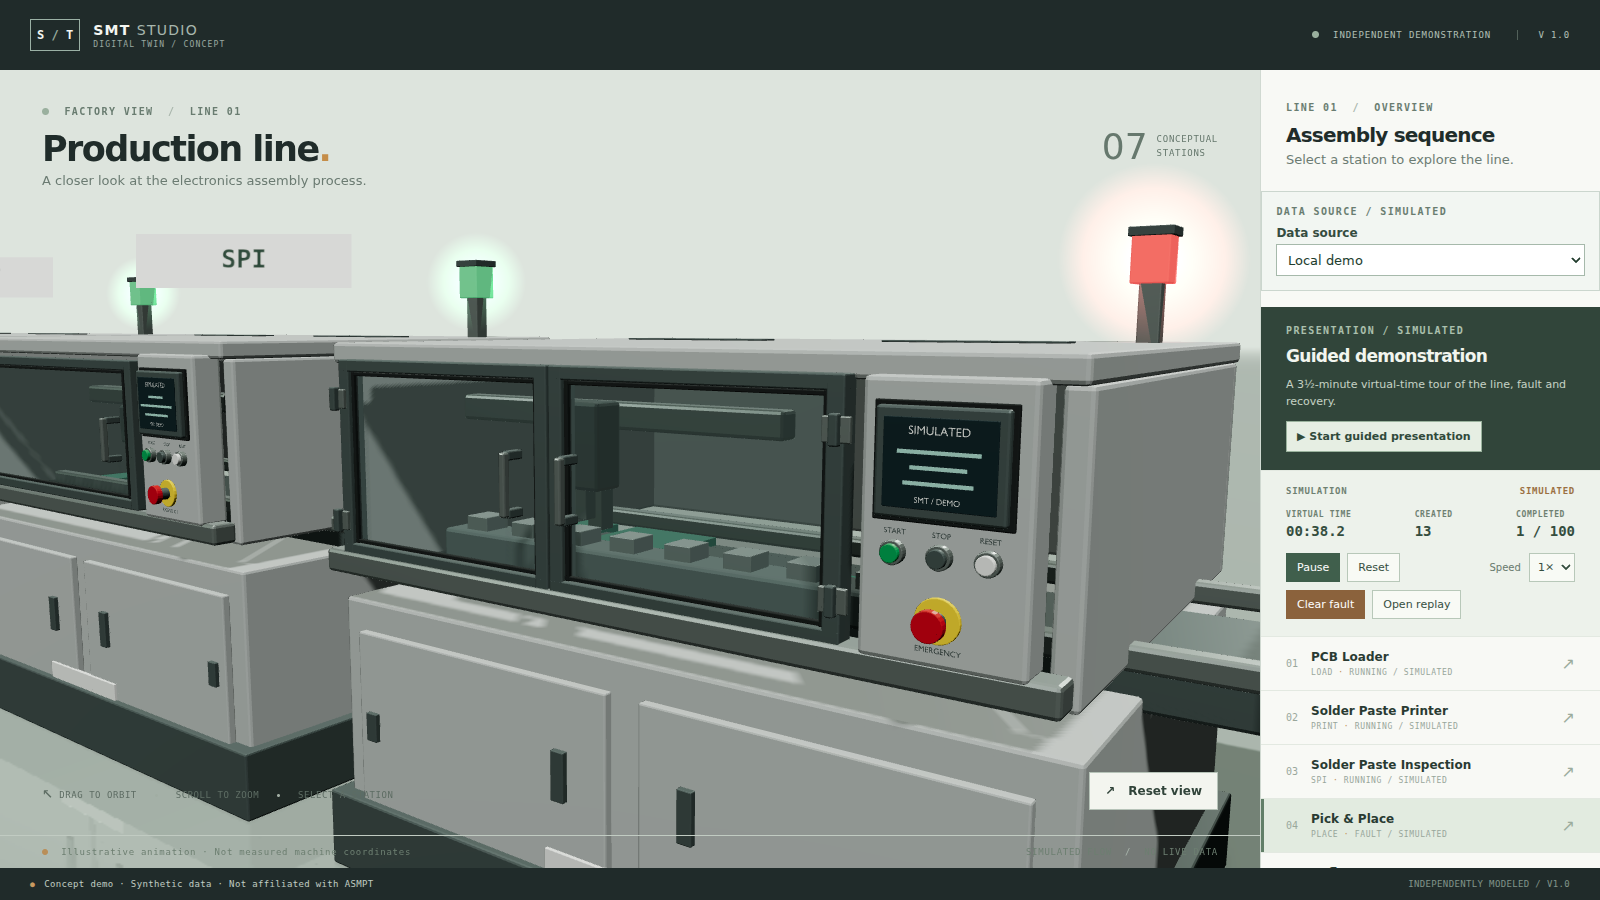
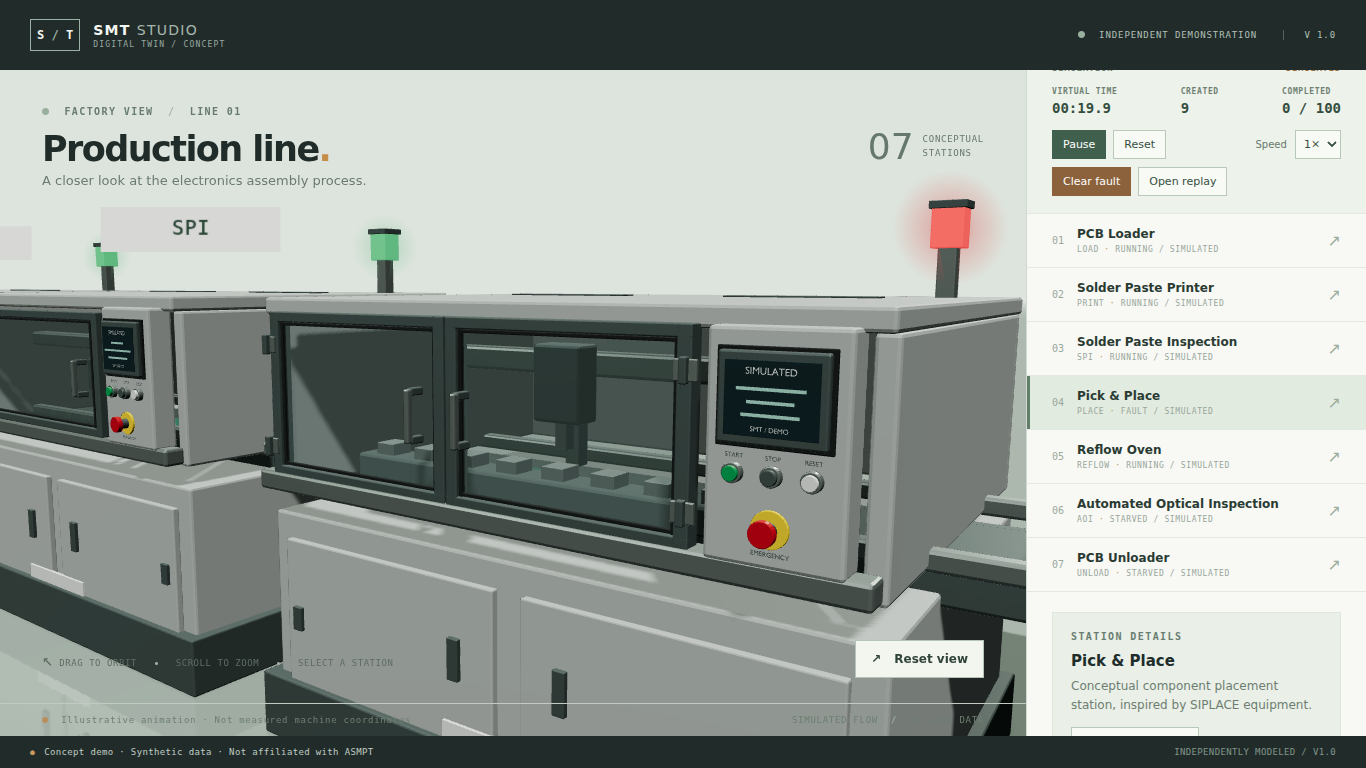
fix: tint the halo by blending normally, and pin the lens position

diff --git a/tests/unit/status-glow.test.ts b/tests/unit/status-glow.test.ts
@@ -1,17 +1,32 @@
 import { describe, expect, it } from 'vitest'
-import { glowOpacity, glowScale } from '../../src/scene/statusGlow'
+import { MAX_GLOW_SCALE, MIN_GLOW_SCALE, glowOpacity, glowScale } from '../../src/scene/statusGlow'
 
 describe('status light glow', () => {
-  it('glows brightest for a fault and dimmest for an idle machine', () => {
-    expect(glowOpacity('FAULT')).toBeGreaterThan(glowOpacity('RUNNING'))
-    expect(glowOpacity('RUNNING')).toBeGreaterThan(glowOpacity('IDLE'))
-    expect(glowOpacity('IDLE')).toBeGreaterThan(0)
-    expect(glowOpacity('FAULT')).toBeLessThanOrEqual(0.8)
+  it('follows the documented per-state table', () => {
+    expect(glowOpacity('FAULT')).toBeCloseTo(0.6, 5)
+    expect(glowOpacity('BLOCKED')).toBeCloseTo(0.52, 5)
+    expect(glowOpacity('STARVED')).toBeCloseTo(0.52, 5)
+    expect(glowOpacity('RUNNING')).toBeCloseTo(0.46, 5)
+    expect(glowOpacity('IDLE')).toBeCloseTo(0.12, 5)
+    expect(glowOpacity('UNKNOWN')).toBeCloseTo(0.12, 5)
+    expect(glowOpacity('')).toBeCloseTo(0.12, 5)
+    expect(glowScale('FAULT')).toBeCloseTo(0.46, 5)
+    expect(glowScale('RUNNING')).toBeCloseTo(0.4, 5)
+    expect(glowScale('IDLE')).toBeCloseTo(0.26, 5)
   })
 
-  it('keeps the halo small enough to read as a lamp, not a flare', () => {
-    expect(glowScale('FAULT')).toBeGreaterThan(glowScale('RUNNING'))
-    expect(glowScale('FAULT')).toBeLessThanOrEqual(0.7)
-    expect(glowScale('IDLE')).toBeGreaterThan(0)
+  it('stays between the lens width and the no-neon budget', () => {
+    for (const state of ['FAULT', 'BLOCKED', 'STARVED', 'RUNNING', 'IDLE', 'UNKNOWN', '']) {
+      expect(glowScale(state)).toBeGreaterThanOrEqual(MIN_GLOW_SCALE)
+      expect(glowScale(state)).toBeLessThanOrEqual(MAX_GLOW_SCALE)
+      expect(glowOpacity(state)).toBeGreaterThanOrEqual(0)
+      expect(glowOpacity(state)).toBeLessThanOrEqual(0.6)
+    }
+  })
+
+  it('orders the states by urgency', () => {
+    expect(glowOpacity('FAULT')).toBeGreaterThan(glowOpacity('STARVED'))
+    expect(glowOpacity('STARVED')).toBeGreaterThan(glowOpacity('RUNNING'))
+    expect(glowOpacity('RUNNING')).toBeGreaterThan(glowOpacity('IDLE'))
   })
 })

diff --git a/src/scene/StatusGlow.tsx b/src/scene/StatusGlow.tsx
@@ -5,7 +5,11 @@ import { glowOpacity, glowScale } from './statusGlow'
 
 let cached: THREE.CanvasTexture | null = null
 
-/** A radial falloff generated at runtime: no texture is downloaded. */
+/**
+ * A radial falloff generated at runtime: no texture is downloaded.
+ * Cached for the lifetime of the page on purpose — each sprite shares it, so disposing on unmount
+ * would blank the other stations.
+ */
 function glowTexture(): THREE.CanvasTexture {
   if (cached) return cached
   const size = 128
@@ -13,8 +17,8 @@ function glowTexture(): THREE.CanvasTexture {
   canvas.width = canvas.height = size
   const context = canvas.getContext('2d')!
   const gradient = context.createRadialGradient(size / 2, size / 2, 0, size / 2, size / 2, size / 2)
-  gradient.addColorStop(0, 'rgba(255,255,255,1)')
-  gradient.addColorStop(0.35, 'rgba(255,255,255,0.55)')
+  gradient.addColorStop(0, 'rgba(255,255,255,0.95)')
+  gradient.addColorStop(0.4, 'rgba(255,255,255,0.45)')
   gradient.addColorStop(1, 'rgba(255,255,255,0)')
   context.fillStyle = gradient
   context.fillRect(0, 0, size, size)
@@ -23,19 +27,20 @@ function glowTexture(): THREE.CanvasTexture {
   return cached
 }
 
-/** Additive halo over the tower lens; depth-tested so a machine in front still occludes it. */
+/**
+ * Soft halo over the tower lens. Normal blending keeps the hue on the pale backdrop (additive turns
+ * the fault halo white), and depth testing lets a machine in front occlude it.
+ */
 export default function StatusGlow({ position, state }: { position: [number, number, number]; state: string }) {
   const texture = useMemo(glowTexture, [])
   const scale = glowScale(state)
-  return <sprite position={position} scale={[scale, scale, 1]}>
+  return <sprite name="Signal_Glow" position={position} scale={[scale, scale, 1]} raycast={() => undefined}>
     <spriteMaterial
       map={texture}
       color={signalColor(state)}
       transparent
       opacity={glowOpacity(state)}
-      blending={THREE.AdditiveBlending}
       depthWrite={false}
-      toneMapped={false}
     />
   </sprite>
 }

diff --git a/src/scene/statusGlow.ts b/src/scene/statusGlow.ts
@@ -1,13 +1,29 @@
-import { signalIntensity } from './status'
+/** Authored lens centre in station space; every GLB places `Signal_Lens` here. */
+export const SIGNAL_LENS: [number, number, number] = [1.01, 2.17, -0.65]
+
+/** The halo must stay wider than the 0.12 m lens, and narrow enough to read as a lamp, not a flare. */
+export const MIN_GLOW_SCALE = 0.16
+export const MAX_GLOW_SCALE = 0.5
 
 /**
- * Additive halo around the signal lens. It is a sprite, not a post-processing pass:
- * a neon bloom would fight the restrained look the demo is aiming for.
+ * Additive halos wash out to white on this pale backdrop once a channel clips, so the glow is a
+ * softly tinted disc instead. A sprite, not a post-processing pass: a neon bloom would fight the
+ * restrained look the demo is aiming for, and would need the render targets this project rejected
+ * with ambient occlusion.
  */
+const GLOW: Record<string, { opacity: number; scale: number }> = {
+  FAULT: { opacity: 0.6, scale: 0.46 },
+  BLOCKED: { opacity: 0.52, scale: 0.42 },
+  STARVED: { opacity: 0.52, scale: 0.42 },
+  RUNNING: { opacity: 0.46, scale: 0.4 },
+}
+
+const IDLE = { opacity: 0.12, scale: 0.26 }
+
 export function glowOpacity(state: string): number {
-  return Math.min(0.8, 0.18 + signalIntensity(state) * 0.5)
+  return GLOW[state]?.opacity ?? IDLE.opacity
 }
 
 export function glowScale(state: string): number {
-  return 0.24 + signalIntensity(state) * 0.4
+  return GLOW[state]?.scale ?? IDLE.scale
 }

diff --git a/src/scene/Factory.tsx b/src/scene/Factory.tsx
@@ -15,6 +15,7 @@ import Floor from './Floor'
 import LightRig, { EXPOSURE } from './lighting'
 import { castsShadow } from './assetMaterials'
 import StatusGlow from './StatusGlow'
+import { SIGNAL_LENS } from './statusGlow'
 import { boardTarget, boardX, boardZ, updateTransfers, type Transfer } from './transfers'
 
 function Box({ position, size, color, metal = 0.25, name }: { position: [number, number, number]; size: [number, number, number]; color: string; metal?: number; name?: string }) {
@@ -122,7 +123,7 @@ function Machine({ station, machine, time, selected, onSelect, status }: { stati
   useEffect(() => () => label.dispose(), [label])
   return <group position={station.position} name={station.id} onClick={e => { e.stopPropagation(); onSelect() }}>
     <AssetShell station={station} machine={machine} time={time} selected={selected} state={status} />
-    <StatusGlow position={[1.01, 2.17, -0.65]} state={status} />
+    <StatusGlow position={SIGNAL_LENS} state={status} />
     {!machine && <Box position={[1.01, 2.3, -0.65]} size={[0.14, 0.14, 0.14]} color={signalColor(status)} />}
     {!selected && <sprite position={[0, 2.28, 0]} scale={[1.1, 0.275, 1]}><spriteMaterial map={label} /></sprite>}
   </group>

diff --git a/tests/unit/assets.test.ts b/tests/unit/assets.test.ts
@@ -2,6 +2,7 @@ import { readFileSync, statSync } from 'node:fs'
 import { describe, expect, it } from 'vitest'
 import { artifactNames, stationAnchors } from '../../src/data/anchors'
 import { anchorOffsets } from '../../src/scene/anchors'
+import { SIGNAL_LENS } from '../../src/scene/statusGlow'
 
 type GlbNode = { name?: string; mesh?: number; children?: number[]; translation?: number[] }
 type GlbMaterial = {
@@ -194,6 +195,16 @@ describe('original Blender machine assets', () => {
           expect(high[2] + dz, `${kind} ${anchorName} crosses the door`).toBeLessThan(enclosure.zMax)
         }
       }
+    })
+  }
+
+  for (const name of artifactNames) {
+    it(`${name} places its signal lens where the status glow is drawn`, () => {
+      const json = glbJson(name)
+      const lens = json.nodes.find(node => node.name === 'Signal_Lens')
+      const mesh = lens?.children?.map(index => json.nodes[index]).find(node => node.mesh !== undefined)
+      const translation = mesh?.translation ?? []
+      for (let axis = 0; axis < 3; axis++) expect(translation[axis]).toBeCloseTo(SIGNAL_LENS[axis], 5)
     })
   }
 

diff --git a/docs/STATUS_GLOW_REPORT.md b/docs/STATUS_GLOW_REPORT.md
@@ -4,37 +4,40 @@ Date: 2026-11-13. Branch: `v19-status-glow`. **Awaiting user visual acceptance.*
 
 ## What changed
 
-The signal tower used to change colour only, which read as coloured plastic. Each station now gets a small additive halo over its lens, sized and brightened by state:
+The seven signal towers used to change colour only, which read as coloured plastic. Each station now draws a small soft halo over its lens, sized and tinted by state:
 
-| State | Colour | Opacity | Halo width |
-| --- | --- | --- | --- |
-| FAULT | red | 0.68 | 0.64 m |
-| BLOCKED / STARVED | amber | 0.58 | 0.56 m |
-| RUNNING | green | 0.51 | 0.50 m |
-| IDLE / other | grey | 0.24 | 0.29 m |
+| State | Opacity | Halo width |
+| --- | --- | --- |
+| FAULT | 0.60 | 0.46 m |
+| BLOCKED / STARVED | 0.52 | 0.42 m |
+| RUNNING | 0.46 | 0.40 m |
+| IDLE / UNKNOWN | 0.12 | 0.26 m |
 
-Implementation: `src/scene/StatusGlow.tsx` renders a `sprite` with a radial-gradient canvas texture generated at runtime, additive blending, `depthWrite` false and depth testing on, so a machine in front still occludes it. The mapping lives in `src/scene/statusGlow.ts` and is unit-tested.
+Implementation: `src/scene/StatusGlow.tsx` renders a `sprite` with a radial-gradient canvas texture generated at runtime, normal blending, `depthWrite` false and depth testing on, so a machine in front still occludes it. The mapping lives in `src/scene/statusGlow.ts`; `SIGNAL_LENS` is the single authored lens position and is asserted against every GLB.
 
-Deliberately not a post-processing pass: a bloom pass would need render targets, tone-mapping care and its own quality switch — the same cost this project already rejected for ambient occlusion — to make three small lamps glow.
+Why not additive, and why not bloom: an additive halo clips to white on this pale backdrop — the first version's "red" fault halo measured a white core and a cream fringe. Normal blending keeps the hue. A bloom pass would need render targets, tone-mapping handling and a quality switch for seven small lamps, which is the cost the ambient-occlusion round already declined.
 
 ## Evidence
 
-| Running | Fault injected |
-| --- | --- |
-| ![Running](screenshots/status-glow/running.png) | ![Fault](screenshots/status-glow/fault.png) |
+| Overview, running | Fault injected, close-up | Idle |
+| --- | --- | --- |
+| ![Running](screenshots/status-glow/running.png) | ![Fault](screenshots/status-glow/fault.png) | ![Idle](screenshots/status-glow/idle.png) |
 
-The green halos read as lit lenses rather than painted cubes, and the faulted mounter's red halo is visible across the line without washing out the cabinets. Idle machines keep a faint grey halo so the tower does not look dead.
+At the shipped overview camera the halos read as small lit lenses rather than flares. The faulted mounter's halo is red, not white, and stays local to the tower. Idle stations show no halo in practice: the 0.12 opacity on a pale wall is below one visible level, which is deliberate — an idle tower should look off.
 
 Checks actually run:
 
 ```text
-npx vitest run tests/unit/status-glow.test.ts   2 passed
-npm test                                        114 passed, 1 skipped
+npx vitest run tests/unit/status-glow.test.ts tests/unit/assets.test.ts   42 passed
+npm test                                                                 114 passed, 1 skipped
 ```
+
+The unit tests pin the documented table for all five states plus `UNKNOWN`/`''`, the ordering (fault > starved > running > idle), and the width bounds (never narrower than the lens, never above the no-neon budget).
 
 ## Boundaries and decisions
 
-- The halo is a sprite, not light: it does not illuminate the cabinet, cast shadows or change with camera exposure. It is a visual cue, consistent with the "illustrative" footer.
-- Sizes stay under 0.7 m so a fault reads as a lamp, not a flare. The unit test pins the ordering (fault > running > idle) and the cap.
+- The halo is a sprite, not light: it casts no light or shadow, and it now participates in tone mapping like everything else.
+- Widths stay at or under 0.5 m (lens is 0.12 m) so a fault reads as a lamp, not a flare.
 - Remote (W4) views get the same halo because they share the `status` prop.
-- No dependencies, no new render pass, no change to the tower geometry or the material mapping.
+- One cached canvas texture for all seven sprites; it is intentionally never disposed, because disposing per unmount would blank the other stations.
+- No dependencies, no render pass, no change to tower geometry or the colour mapping.

diff --git a/README.md b/README.md
@@ -65,7 +65,7 @@ npm run dev
 
 Open the URL printed by Vite. Drag to orbit, scroll to zoom, and click a machine or use the keyboard-accessible station list to focus it. **Reset view** restores the overview. Use **Start/Pause**, **Reset**, and the 1×/2×/5× selector.
 
-The scene uses seven locally packaged GLBs generated from one original Blender pipeline; the procedural shell is only a load-failure fallback. Lighting is an authored showroom rig: three softbox lightformers baked once into an environment map, a key light that casts shadows, and a blurred planar reflection on the floor. Signal towers carry a small additive halo sized by state, so a running or faulted station reads as a lit lamp rather than a coloured block. The powder coat is matte in the seven assets, so the line reads as industrial enclosures rather than plastic. Ambient occlusion was evaluated for this scene and removed: the key light's shadow map already provides the contact shading, and the extra pass changed the image by only a few levels. No HDRI, texture or font is downloaded — the demo still runs with no network. WebGL is required; a fallback message is shown when it is unavailable.
+The scene uses seven locally packaged GLBs generated from one original Blender pipeline; the procedural shell is only a load-failure fallback. Lighting is an authored showroom rig: three softbox lightformers baked once into an environment map, a key light that casts shadows, and a blurred planar reflection on the floor. Signal towers carry a small state-tinted halo, so a running or faulted station reads as a lit lamp rather than a coloured block. The powder coat is matte in the seven assets, so the line reads as industrial enclosures rather than plastic. Ambient occlusion was evaluated for this scene and removed: the key light's shadow map already provides the contact shading, and the extra pass changed the image by only a few levels. No HDRI, texture or font is downloaded — the demo still runs with no network. WebGL is required; a fallback message is shown when it is unavailable.
 
 #### Static deployment
 

diff --git a/docs/DECISIONS.md b/docs/DECISIONS.md
@@ -82,6 +82,8 @@
 - Remote W4 boards keep the server-supplied `visual` interpolation and are outside this change; scenes containing them are skipped by the transfer model, and switching source clears any in-flight hops.
 
 ## v1.9 (2026-11-13)
-- Status lights use a small additive sprite halo (`src/scene/StatusGlow.tsx`), sized and brightened by station state: 0.68/0.64 m for FAULT, 0.58/0.56 for BLOCKED and STARVED, 0.51/0.50 for RUNNING, 0.24/0.29 for idle. The texture is a runtime radial gradient; nothing is downloaded.
-- A post-processing bloom was rejected for this: it would add render targets, tone-mapping handling and another quality switch for three small lamps, which is the cost the ambient-occlusion round already declined.
-- The halo is depth-tested and does not write depth, so machines occlude it and it never bleeds through the line. It is a visual cue only: no light is cast and exposure does not change.
+- The seven signal towers draw a soft sprite halo over the lens, sized and tinted by state: FAULT 0.60/0.46 m, BLOCKED and STARVED 0.52/0.42, RUNNING 0.46/0.40, idle 0.12/0.26. Texture is a runtime radial gradient; nothing is downloaded.
+- Normal blending, not additive: an additive halo clips to white on the pale backdrop, so the fault halo read as a white bloom. Depth testing stays on and depth writing is off, so machines occlude it; the sprite is not clickable.
+- `SIGNAL_LENS` is the single source for the authored lens position and a unit test asserts it against every GLB, so a future tower edit cannot leave the halo floating.
+- A post-processing bloom was rejected: render targets, tone-mapping handling and a quality switch for seven small lamps is the trade the ambient-occlusion round already declined.
+- The halo is a visual cue only: no light is cast, exposure does not change.

diff --git a/docs/PROJECT_SUMMARY.md b/docs/PROJECT_SUMMARY.md
@@ -140,7 +140,7 @@ Sections 1–7 were written on 2026-11-10 and are kept as the handover record of
   [`MOUNTER_SAMPLE_REPORT.md`](MOUNTER_SAMPLE_REPORT.md) ·
   [`PRINTER_INSPECTION_ROLLOUT_REPORT.md`](PRINTER_INSPECTION_ROLLOUT_REPORT.md) ·
   [`REFLOW_LOADER_ROLLOUT_REPORT.md`](REFLOW_LOADER_ROLLOUT_REPORT.md).
-- **Rendering** — authored showroom lighting with a blurred planar floor reflection, and a matte powder coat in all seven assets. Ambient occlusion was built, measured and removed; the reasoning and the traps are in [`MATERIALS_AO_REPORT.md`](MATERIALS_AO_REPORT.md) and [`DECISIONS.md`](DECISIONS.md) v1.2–v1.6.
+- **Rendering** — authored showroom lighting with a blurred planar floor reflection, and a matte powder coat in all seven assets. Signal towers carry a small state-tinted halo ([`STATUS_GLOW_REPORT.md`](STATUS_GLOW_REPORT.md)). Ambient occlusion was built, measured and removed; the reasoning and the traps are in [`MATERIALS_AO_REPORT.md`](MATERIALS_AO_REPORT.md) and [`DECISIONS.md`](DECISIONS.md) v1.2–v1.9.
 - **What this supersedes** — the "two Blender scenes" and "five stations share procedural shells" statements above, and the W1 audit's shared-shell finding. The W1 records themselves are historical and are not rewritten.
 - **Board motion** — cross-station hops are now interpolated in the scene over 0.35–0.9 s of simulated time; the simulator still transfers instantaneously. See [`TRANSFER_REPORT.md`](TRANSFER_REPORT.md).
 - **What is unchanged** — replay semantics, camera presets, backend, event contract and all W2–W6 behaviour. Remote views still render the models statically.
